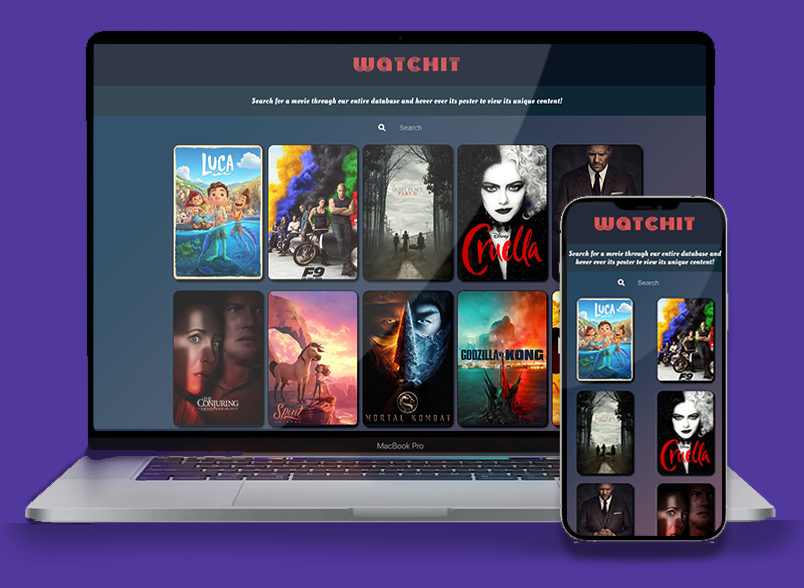
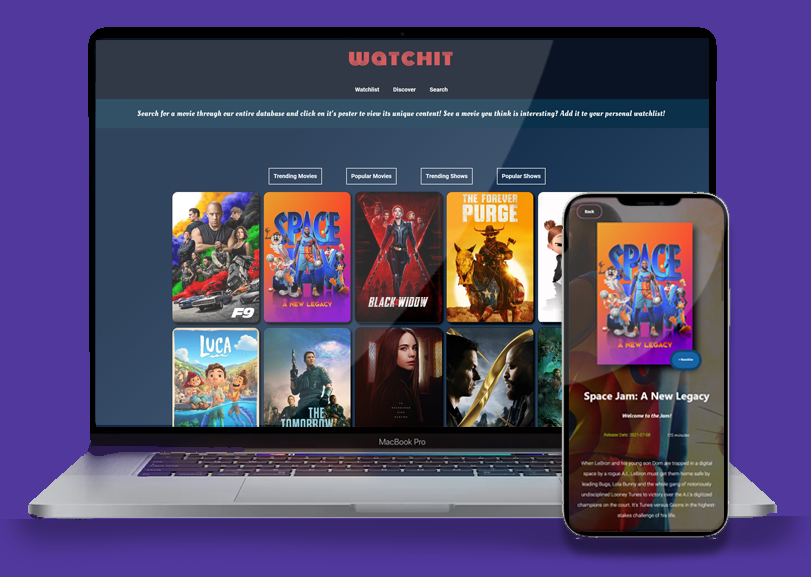
updated projects

diff --git a/index.html b/index.html
@@ -92,13 +92,13 @@
                                 <div class="carousel-images">
                                     <div class="project-2">
                                         <h2>watch it</h2>
-                                        <h3>Movie database with working search query to browse thousands of movies using TMDB API</h3>
-                                        <a href="https://elegant-tereshkova-91ebbb.netlify.app/"><img src="assets/project-2-background.png" alt=""></a>
+                                        <h3>A React based Netflix-like clone. watch it is a movie database with working watchlist through Firebase, search, and discovery page using TMDB API. </h3>
+                                        <a href="https://watchit-app.netlify.app/"><img src="assets/project-2-background.png" alt=""></a>
                                         <ul class="skills-used">
-                                            <li><i class="fab fa-html5"></i><span>HTML5</span></li>
                                             <li><i class="fab fa-sass"></i><span>Sass / CSS3</span></li>
                                             <li><i class="fab fa-js-square"></i><span>JavaScript</span></li>
                                             <li><i class="fab fa-react"></i><span>React</span></li>
+                                            <li><i class="fab fa-google"></i><span>Firebase</span></li>
                                             <li><i class="fas fa-laptop-code"></i><span>REST APIs</span></li>
                                             <li><i class="fas fa-mobile-alt"></i><span>Responsive Design</span></li>
                                         </ul>
@@ -241,7 +241,7 @@
                 <ul>
                     <li><a href="https://sshmamba.github.io/saif-hussaini-projectone/"><p>Sanctuary Helpers</p></a></li>
                     <li><a href="https://cohort-34-pirates.github.io/project2-saif-eric/"><p>One Piece Chapter Selector</p></a></li>
-                    <li><a href="https://elegant-tereshkova-91ebbb.netlify.app/"><p>watch it</p></a></li>
+                    <li><a href="https://watchit-app.netlify.app/"><p>watch it</p></a></li>
                     <li><a href="https://concert-accountant.netlify.app/"><p>Concert Accountant</p></a></li>
                     <li><a href="https://cohort-34-pirates.github.io/project2-saif-eric/"><p>One Piece Chapter Selector</p></a></li>
                     <li><a href="https://priceless-yonath-6f303b.netlify.app/"><p>Marvel Cinematic Universe Quiz</p></a></li>

diff --git a/styles/style.css b/styles/style.css
@@ -1622,6 +1622,9 @@ template {
   header h3 {
     font-size: 15px;
   }
+  header .content-list-home {
+    left: -60px;
+  }
 
   .about-page {
     width: 780px;
@@ -1808,7 +1811,7 @@ template {
     width: 200px;
     font-size: 10px;
     position: relative;
-    padding-top: 20px;
+    padding-top: 50px;
     right: 70px;
   }
   header h3 {
@@ -1842,6 +1845,17 @@ template {
   header .social-icons li i {
     font-size: 10px;
     padding: 0px;
+  }
+  header .content-list-home {
+    bottom: 330px;
+    width: 200px;
+    left: -120px;
+  }
+  header .content-list-home ul li {
+    margin: 0px 10px;
+  }
+  header .content-list-home a {
+    font-size: 10px;
   }
 
   .about-page {
@@ -1920,7 +1934,7 @@ template {
     max-width: 100%;
   }
   .projects-page .button-previous, .projects-page .button-next {
-    top: 50px;
+    top: 100px;
   }
   .projects-page .project-1, .projects-page .project-2, .projects-page .project-3, .projects-page .project-4, .projects-page .project-5 {
     max-width: 100%;
@@ -1965,7 +1979,7 @@ template {
   }
   .projects-page .live-repo-links {
     max-width: 100%;
-    width: 200px;
+    width: auto;
     bottom: 120px;
   }
   .projects-page .live-repo-links ul li {
@@ -1977,6 +1991,9 @@ template {
         -ms-flex-direction: row;
             flex-direction: row;
     width: 50px;
+    -webkit-box-pack: center;
+        -ms-flex-pack: center;
+            justify-content: center;
   }
   .projects-page .live-repo-links a {
     font-size: 10px;
@@ -1984,6 +2001,9 @@ template {
     display: -webkit-box;
     display: -ms-flexbox;
     display: flex;
+    -webkit-box-pack: center;
+        -ms-flex-pack: center;
+            justify-content: center;
   }
 
   .contact-page {

diff --git a/styles/sass/_projects.scss b/styles/sass/_projects.scss
@@ -145,7 +145,6 @@
     }
 }
 
-
     .project-2 {
         background-color: #50389d;
     }
